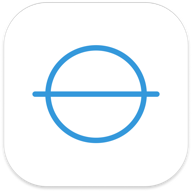
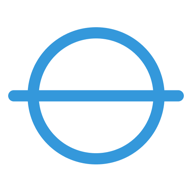
앱 로고 사이즈 변경

diff --git a/src/app/layout.tsx b/src/app/layout.tsx
@@ -21,6 +21,13 @@ const manrope = Manrope({
 export const metadata: Metadata = {
   title: "AlphA Bank",
   description: "AlphA Bank — Personal Finance Dashboard",
+  icons: {
+    icon: [
+      { url: "/favicon-16x16.png", sizes: "16x16", type: "image/png" },
+      { url: "/favicon-32x32.png", sizes: "32x32", type: "image/png" },
+      { url: "/icon-512.png", sizes: "512x512", type: "image/png" },
+    ],
+  },
 };
 
 export default function RootLayout({
